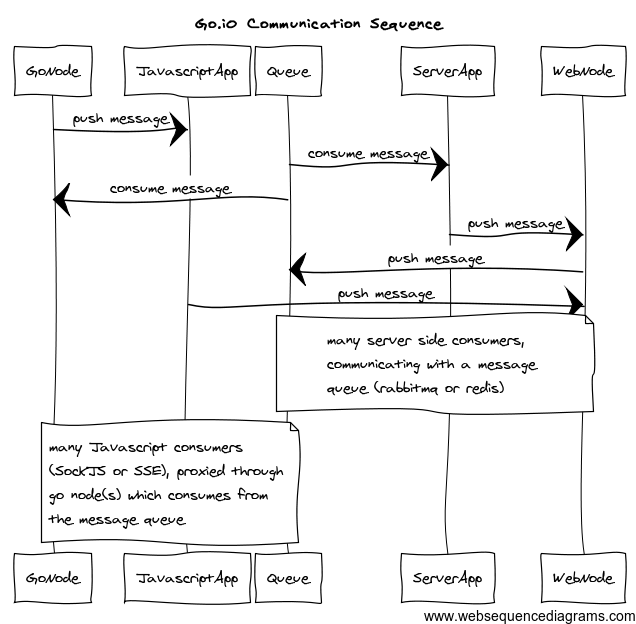
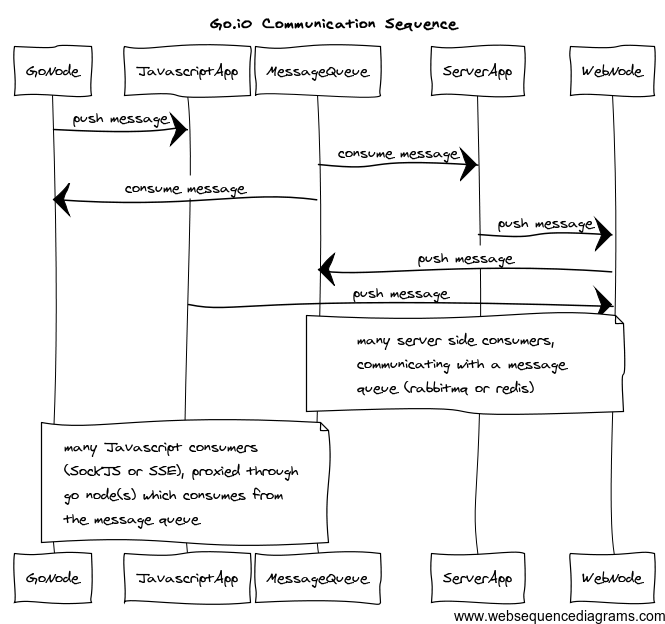
Refactored gonode package structure to match message/client naming in sequence diagrams/README.

diff --git a/goio-node/src/go.io/server.go b/goio-node/src/go.io/server.go
@@ -4,7 +4,7 @@ import (
     "github.com/igm/sockjs-go/sockjs"
     "net/http"
     "log"
-    "go.io/queue"
+    "go.io/message/queue"
     "time"
     "flag"
 )
@@ -19,7 +19,7 @@ func main() {
 
 func SockJSHandler(session sockjs.Conn) {
     log.Println("Session created")
-    consumer, err := queue.GetConsumer()
+    consumer, err := message_queue.GetConsumer()
     for {
         // val, err := session.ReadMessage()
         lifetime := flag.Duration("lifetime", 0*time.Second, "lifetime of process before shutdown (0s=infinite)")

diff --git a/goio-node/src/go.io/message/queue/rabbitmq.go b/goio-node/src/go.io/message/queue/rabbitmq.go
@@ -1,4 +1,4 @@
-package queue
+package message_queue
 // This example declares a durable Exchange, and publishes a single message to
 // that Exchange with a given routing key.
 //

diff --git a/goio-node/src/go.io/message/queue/backend.go b/goio-node/src/go.io/message/queue/backend.go
@@ -1,0 +1,1 @@
+package message_queue

diff --git a/goio-node/src/go.io/message/queue/backend_test.go b/goio-node/src/go.io/message/queue/backend_test.go
@@ -1,0 +1,1 @@
+package message_queue

diff --git a/goio-node/src/go.io/message/queue/rabbitmq_test.go b/goio-node/src/go.io/message/queue/rabbitmq_test.go
@@ -1,0 +1,1 @@
+package message_queue

diff --git a/goio-node/src/go.io/message/queue/redis.go b/goio-node/src/go.io/message/queue/redis.go
@@ -1,0 +1,1 @@
+package message_queue

diff --git a/goio-node/src/go.io/message/queue/redis_test.go b/goio-node/src/go.io/message/queue/redis_test.go
@@ -1,0 +1,1 @@
+package message_queue

diff --git a/goio-node/src/go.io/message/dispatcher.go b/goio-node/src/go.io/message/dispatcher.go
@@ -1,0 +1,1 @@
+package message

diff --git a/goio-node/src/go.io/message/dispatcher_test.go b/goio-node/src/go.io/message/dispatcher_test.go
@@ -1,0 +1,1 @@
+package message

diff --git a/goio-node/src/go.io/message/listener.go b/goio-node/src/go.io/message/listener.go
@@ -1,0 +1,1 @@
+package message

diff --git a/goio-node/src/go.io/message/listener_test.go b/goio-node/src/go.io/message/listener_test.go
@@ -1,0 +1,1 @@
+package message
